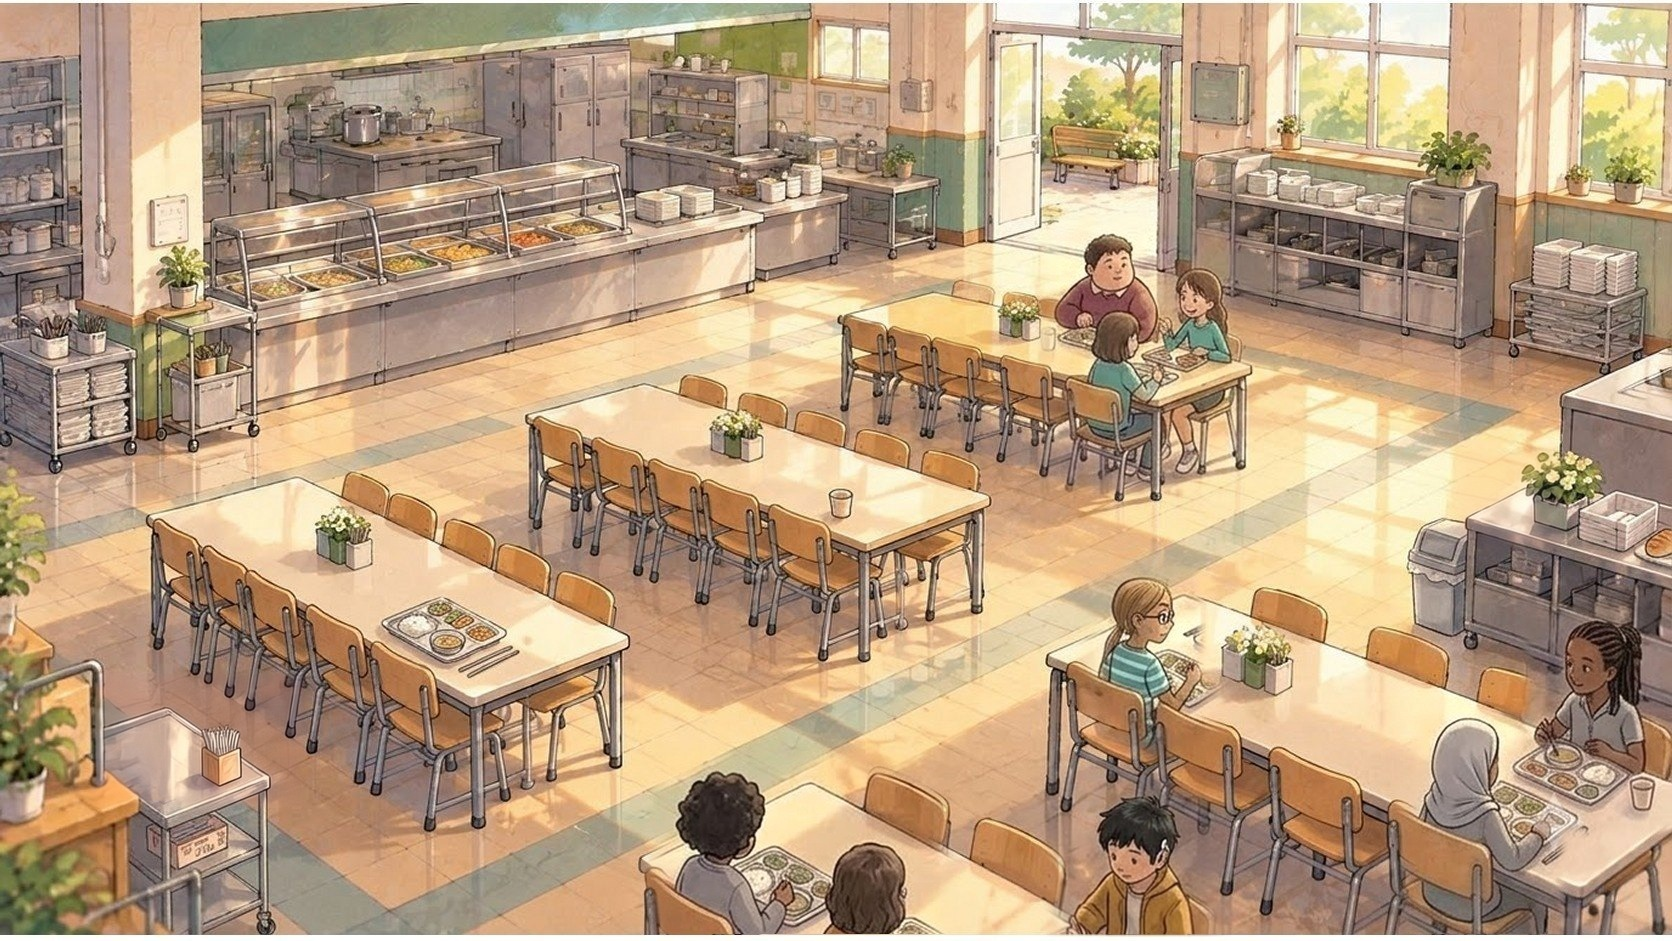
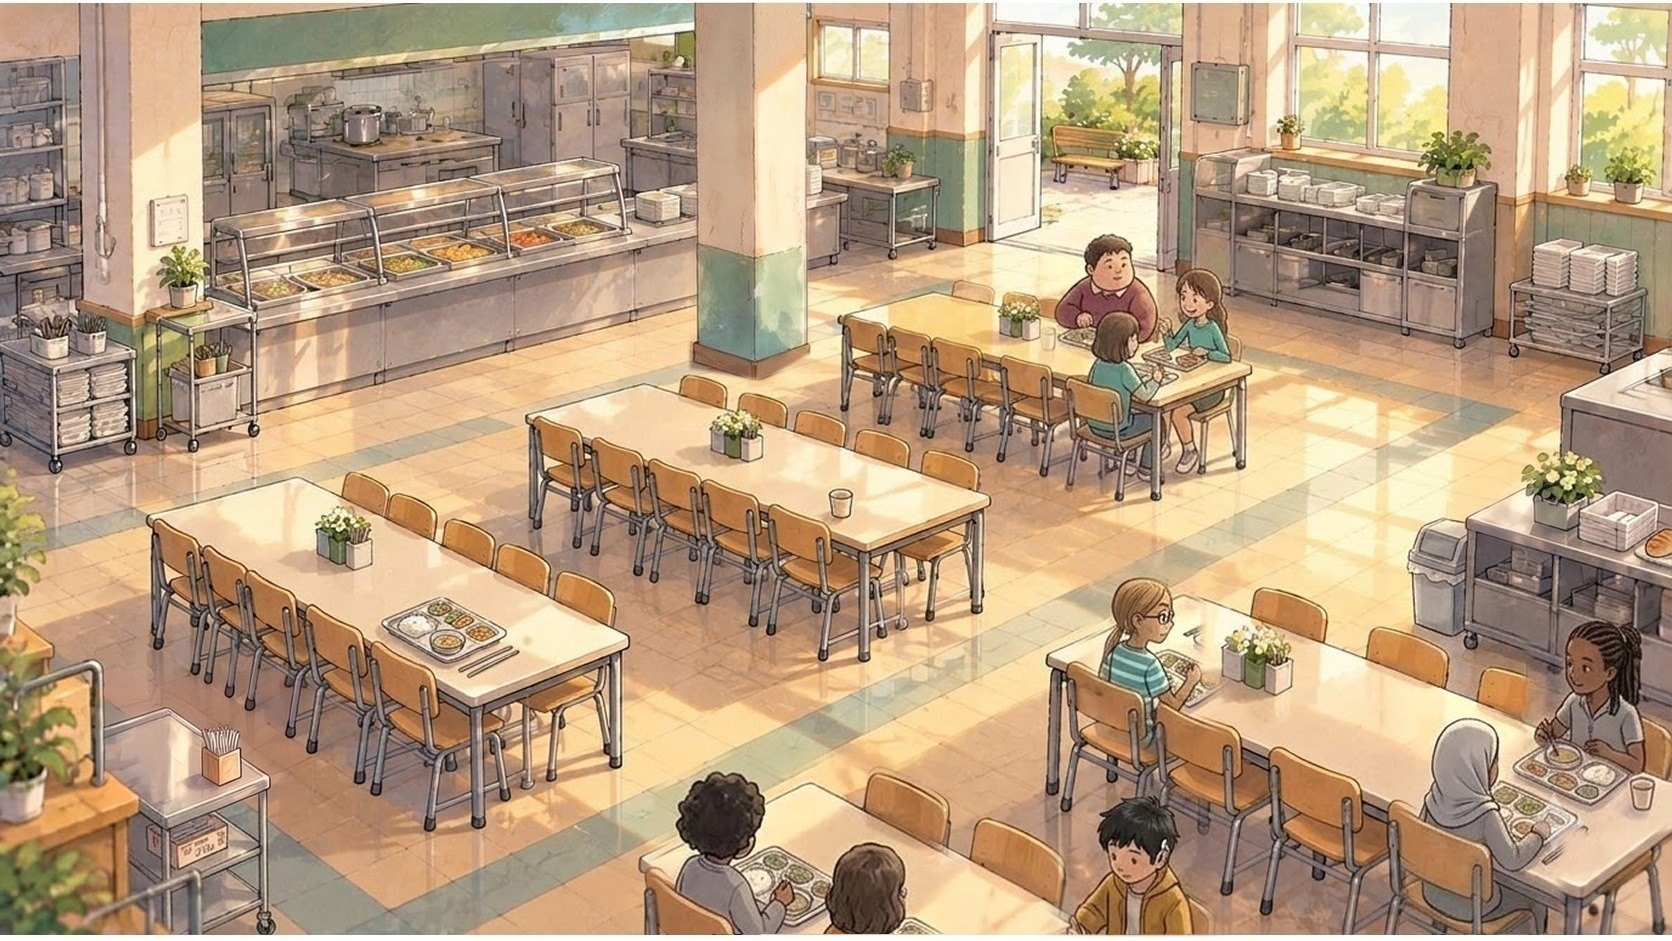
cafeteria maps: a big square pillar (wall-connected) behind the far side of the middle table, for Haneul Day 7 (owner 11/07) (BUILD 1107084455)

Changed region(s): [[0.4043, 0.0, 0.4976, 0.4006]]

diff --git a/index.html b/index.html
@@ -119,14 +119,14 @@ body,button{word-break:keep-all;overflow-wrap:break-word}
 <div id="fader"></div>
 <script>
 // same address, newest version: if the page this phone has kept is older than the one online, fetch the new one and reopen
-const BUILD='1107084312';
+const BUILD='1107084455';
 try{fetch(location.pathname,{cache:'no-store'}).then(r=>r.text()).then(t=>{const m=t.match(/const BUILD='(\d+)'/);if(m&&m[1]!==BUILD&&sessionStorage.getItem('upd')!==m[1]){sessionStorage.setItem('upd',m[1]);fetch(location.pathname,{cache:'reload'}).then(()=>location.reload())}}).catch(()=>{})}catch(e){}
 </script>
-<script src="i18n.js?v=1107084312"></script>
-<script src="i18n_prologue_v2.js?v=1107084312"></script>
-<script src="day2/i18n_engine.js?v=1107084312"></script>
-<script src="day2/data.js?v=1107084312"></script>
-<script src="day3/data.js?v=1107084312"></script>
+<script src="i18n.js?v=1107084455"></script>
+<script src="i18n_prologue_v2.js?v=1107084455"></script>
+<script src="day2/i18n_engine.js?v=1107084455"></script>
+<script src="day2/data.js?v=1107084455"></script>
+<script src="day3/data.js?v=1107084455"></script>
 <script>
 // ---------- data ----------
 const MW=1672,MH=941,KID=180;
@@ -547,34 +547,34 @@ function pickHero(){const m=document.getElementById('modal'),c=document.getEleme
  c.innerHTML=`<h2>${tr('전학생 반장되기')}</h2><p>${tr('한국말이 아직 서툰 전학생,<br>반장 선거에 나가다.')}</p><p style="margin-top:14px">${tr('누구로 할까요?')}</p>${(()=>{const s=loadSave();return s&&s.day>=2&&s.mode===UI+'-'+LANG?`<p><button class="big" id="cont">${tr('{n}일차부터 이어 하기').replace('{n}',s.day)}</button></p>`:''})()}<div class="pick heroes"><button data-h="hero_f"><img src="faces/hero_f_smile.jpg" alt="여자 주인공">${heroName(1)}</button><button data-h="hero_m"><img src="faces/hero_m_smile.jpg" alt="남자 주인공">${heroName(0)}</button></div>`;
  m.classList.add('on');{const cb=document.getElementById('cont');if(cb)cb.onclick=()=>{const s=loadSave();HERO=s.hero;Object.assign(HEART,s.heart||{});(s.found||[]).forEach(k=>FOUND.add(k));HEART_D1={...HEART};chime();(typeof contGame==='function'?contGame(s):startDay(Math.min(s.day,Object.keys(window.D3||{}).length?3:2)))}}c.querySelectorAll('.pick button').forEach(b=>b.onclick=()=>{HERO=b.dataset.h;m.classList.remove('on');chime();bgm('day');load('home_am');say([['nar','','이사 온 다음 날 아침. 아직 풀지 못한 상자들이 쌓여 있다.'],['think','sad','(오늘부터 새 학교야. 여기 말도 아직 서툰데…….)'],['think','smile','({m}한테 인사하고 학교 가야지.)']],morning)})}
 </script>
-<script src="day2/engine.js?v=1107084312"></script>
-<script src="day2/ep_minho.js?v=1107084312"></script>
-<script src="day2/meet.js?v=1107084312"></script>
-<script src="day2/ep_sua.js?v=1107084312"></script>
-<script src="day2/ep_hangyeol.js?v=1107084312"></script>
-<script src="day2/ep_siwoo.js?v=1107084312"></script>
-<script src="day2/ep_haram.js?v=1107084312"></script>
-<script src="day2/ep_jiho.js?v=1107084312"></script>
-<script src="day2/ep_hyeeun.js?v=1107084312"></script>
-<script src="day2/ep_haneul.js?v=1107084312"></script>
-<script src="day2/ep_junho.js?v=1107084312"></script>
-<script src="day2/ep_yuna.js?v=1107084312"></script>
-<script src="day2/ep_yena.js?v=1107084312"></script>
-<script src="day2/ep_haeun.js?v=1107084312"></script>
-<script src="day2/ep_youngmin.js?v=1107084312"></script>
-<script src="day2/ep_seah.js?v=1107084312"></script>
-<script src="day2/ep_jihoon.js?v=1107084312"></script>
-<script src="words_ja_ru.js?v=1107084312"></script>
-<script src="day2/mybag.js?v=1107084312"></script>
-<script src="day2/wordpics.js?v=1107084312"></script>
-<script src="day2/spots.js?v=1107084312"></script>
-<script src="day2/textfit.js?v=1107084312"></script>
-<script src="day2/tester.js?v=1107084312"></script>
-<script src="day2/ux.js?v=1107084312"></script>
-<script src="day2/tapword.js?v=1107084312"></script>
-<script src="day2/review.js?v=1107084312"></script>
-<script src="day2/ep_ending.js?v=1107084312"></script>
-<script src="day2/ending.js?v=1107084312"></script>
+<script src="day2/engine.js?v=1107084455"></script>
+<script src="day2/ep_minho.js?v=1107084455"></script>
+<script src="day2/meet.js?v=1107084455"></script>
+<script src="day2/ep_sua.js?v=1107084455"></script>
+<script src="day2/ep_hangyeol.js?v=1107084455"></script>
+<script src="day2/ep_siwoo.js?v=1107084455"></script>
+<script src="day2/ep_haram.js?v=1107084455"></script>
+<script src="day2/ep_jiho.js?v=1107084455"></script>
+<script src="day2/ep_hyeeun.js?v=1107084455"></script>
+<script src="day2/ep_haneul.js?v=1107084455"></script>
+<script src="day2/ep_junho.js?v=1107084455"></script>
+<script src="day2/ep_yuna.js?v=1107084455"></script>
+<script src="day2/ep_yena.js?v=1107084455"></script>
+<script src="day2/ep_haeun.js?v=1107084455"></script>
+<script src="day2/ep_youngmin.js?v=1107084455"></script>
+<script src="day2/ep_seah.js?v=1107084455"></script>
+<script src="day2/ep_jihoon.js?v=1107084455"></script>
+<script src="words_ja_ru.js?v=1107084455"></script>
+<script src="day2/mybag.js?v=1107084455"></script>
+<script src="day2/wordpics.js?v=1107084455"></script>
+<script src="day2/spots.js?v=1107084455"></script>
+<script src="day2/textfit.js?v=1107084455"></script>
+<script src="day2/tester.js?v=1107084455"></script>
+<script src="day2/ux.js?v=1107084455"></script>
+<script src="day2/tapword.js?v=1107084455"></script>
+<script src="day2/review.js?v=1107084455"></script>
+<script src="day2/ep_ending.js?v=1107084455"></script>
+<script src="day2/ending.js?v=1107084455"></script>
 <script>
 // the goal shows big for a few seconds, then folds into a small pill (tap it to open it again)
 {const g=document.getElementById('goal');let t=null;const big=()=>{g.classList.remove('mini');clearTimeout(t);t=setTimeout(()=>g.classList.add('mini'),4000)};
